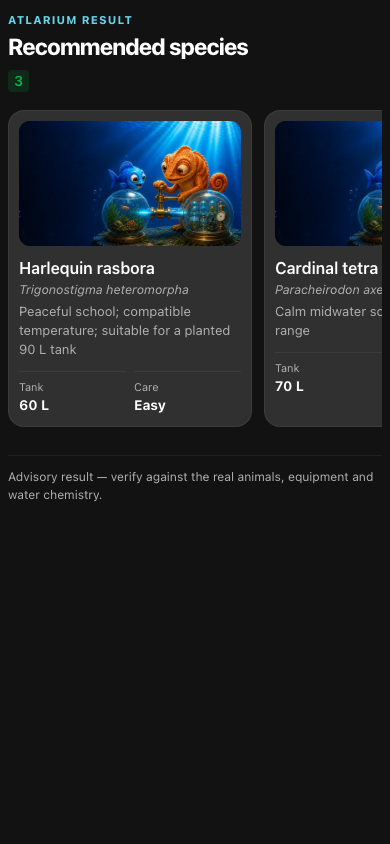
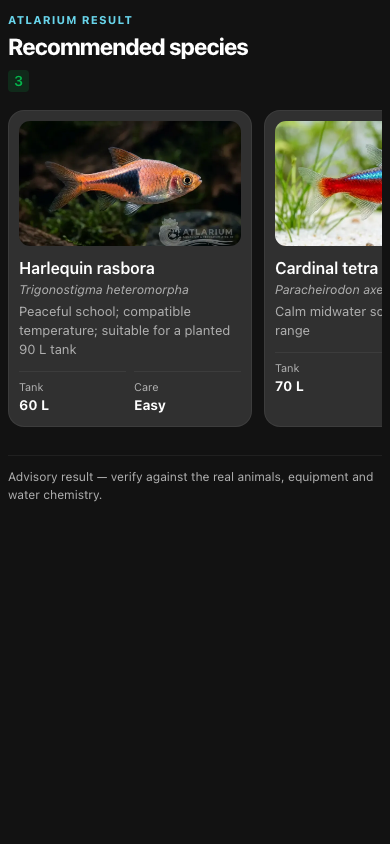
fix: show catalog media in habitat explorer

Changed region(s): [[0.0308, 0.1232, 0.6154, 0.3081], [0.7077, 0.1232, 0.9846, 0.3081]]

diff --git a/src/apps/habitat-explorer-ui/src/data.ts b/src/apps/habitat-explorer-ui/src/data.ts
@@ -171,6 +171,36 @@ function imageFromCandidate(value: unknown): string {
   return "";
 }
 
+function catalogImageFromPublicUrl(item: DataRecord) {
+  const publicUrl = typeof item.public_url === "string" ? item.public_url.trim() : "";
+  const slug = typeof item.slug === "string" ? item.slug.trim() : "";
+  if (!publicUrl || !/^[a-z0-9]+(?:[._-][a-z0-9]+)*$/.test(slug)) return "";
+
+  try {
+    const page = new URL(publicUrl);
+    if (page.protocol !== "https:" || !ALLOWED_IMAGE_HOSTS.has(page.hostname)) return "";
+
+    const segments = page.pathname.split("/").filter(Boolean);
+    const catalogIndex = segments.indexOf("catalog");
+    const category = catalogIndex >= 0 ? segments[catalogIndex + 1] : undefined;
+    const publicSlug = catalogIndex >= 0 ? segments[catalogIndex + 2] : undefined;
+    const mediaCategory = category === "fish" ? "fish" : category === "plants" ? "plant" : undefined;
+    if (!mediaCategory || publicSlug !== slug) return "";
+
+    const source = `/media/catalog/species/${mediaCategory}/${slug}/01-ai.png`;
+    const image = new URL("/api/img/img-wm-v11/card-w828-q78.webp", "https://atlarium.bio");
+    image.searchParams.set("src", source);
+    image.searchParams.set("v", "img-wm-v11");
+    image.searchParams.set("w", "828");
+    image.searchParams.set("q", "78");
+    image.searchParams.set("f", "webp");
+    image.searchParams.set("p", "card");
+    return image.href;
+  } catch {
+    return "";
+  }
+}
+
 export function imageFor(item: DataRecord) {
   for (const key of IMAGE_KEYS) {
     const image = imageFromCandidate(item[key]);
@@ -183,7 +213,7 @@ export function imageFor(item: DataRecord) {
       if (image) return image;
     }
   }
-  return "";
+  return catalogImageFromPublicUrl(item);
 }
 
 export function humanize(value: string) {

diff --git a/tests/widget-data.test.ts b/tests/widget-data.test.ts
@@ -1,0 +1,40 @@
+import { describe, expect, it } from "vitest";
+
+import { imageFor } from "../src/apps/habitat-explorer-ui/src/data.js";
+
+describe("Habitat Explorer media", () => {
+  it("uses the canonical catalog species image when the public payload has no media field", () => {
+    expect(
+      imageFor({
+        slug: "paracheirodon-innesi",
+        public_url: "https://atlarium.bio/it/catalog/fish/paracheirodon-innesi",
+      }),
+    ).toBe(
+      "https://atlarium.bio/api/img/img-wm-v11/card-w828-q78.webp?src=%2Fmedia%2Fcatalog%2Fspecies%2Ffish%2Fparacheirodon-innesi%2F01-ai.png&v=img-wm-v11&w=828&q=78&f=webp&p=card",
+    );
+
+    expect(
+      imageFor({
+        slug: "aciotis-acuminifolia",
+        public_url: "https://atlarium.bio/es/catalog/plants/aciotis-acuminifolia",
+      }),
+    ).toContain("%2Fmedia%2Fcatalog%2Fspecies%2Fplant%2Faciotis-acuminifolia%2F01-ai.png");
+  });
+
+  it("prefers an explicit trusted image and does not invent media for unrelated records", () => {
+    expect(
+      imageFor({
+        image_url: "https://atlarium.bio/media/catalog/custom.webp",
+        slug: "paracheirodon-innesi",
+        public_url: "https://atlarium.bio/it/catalog/fish/paracheirodon-innesi",
+      }),
+    ).toBe("https://atlarium.bio/media/catalog/custom.webp");
+
+    expect(
+      imageFor({
+        slug: "external-record",
+        public_url: "https://example.com/catalog/fish/external-record",
+      }),
+    ).toBe("");
+  });
+});

diff --git a/src/apps/habitat-explorer-ui/src/App.tsx b/src/apps/habitat-explorer-ui/src/App.tsx
@@ -56,16 +56,20 @@ function Media({ item, className = "feature-media" }: { item: DataRecord; classN
   const src = imageFor(item);
   const [failed, setFailed] = useState(false);
   const title = titleFor(item);
-  if (!src || failed) {
-    return (
-      <img
-        className={`${className} media-fallback`}
-        src={mascotScene}
-        alt={`Atlarium habitat mascots for ${title}`}
-      />
-    );
-  }
-  return <Image className={className} src={src} alt={title} loading="lazy" onError={() => setFailed(true)} />;
+  const scientific = scientificFor(item);
+
+  useEffect(() => setFailed(false), [src]);
+
+  if (!src || failed) return null;
+  return (
+    <Image
+      className={className}
+      src={src}
+      alt={scientific ? `${title} — ${scientific}` : title}
+      loading="lazy"
+      onError={() => setFailed(true)}
+    />
+  );
 }
 
 function MascotMedia({ compact = false }: { compact?: boolean }) {

diff --git a/src/config.ts b/src/config.ts
@@ -48,7 +48,7 @@ const envSchema = z
       .min(1)
       .max(80)
       .default("Atlarium Habitat Database MCP"),
-    MCP_VERSION: z.string().trim().min(1).max(40).default("2.0.1"),
+    MCP_VERSION: z.string().trim().min(1).max(40).default("2.0.2"),
     MCP_PORT: z.coerce.number().int().min(1).max(65_535).default(43118),
     MCP_PUBLIC_BASE_URL: z.url().default("https://mcp.atlarium.bio"),
     ATLARIUM_API_BASE_URL: z.url().default("https://atlarium.bio/api/public/mcp/v1"),

diff --git a/tests/config.test.ts b/tests/config.test.ts
@@ -11,7 +11,7 @@ describe("runtime config", () => {
     });
 
     expect(config.MCP_SERVICE_NAME).toBe(mcpDisplayName);
-    expect(config.MCP_VERSION).toBe("2.0.1");
+    expect(config.MCP_VERSION).toBe("2.0.2");
     expect(config.MCP_DEFAULT_LANGUAGE).toBe("en");
     expect(config.atlariumApiBaseUrl.href).toBe("https://atlarium.bio/api/public/mcp/v1");
     expect(config.trustProxy).toBe(1);

diff --git a/tests/apps.test.ts b/tests/apps.test.ts
@@ -66,6 +66,7 @@ describe("ChatGPT App widget", () => {
     expect(html).not.toContain("data-brand-logo");
     expect(html).not.toContain("Rasbora arlecchino");
     expect(html).not.toContain("Acara blu");
+    expect(html).not.toContain("Atlarium habitat mascots for ");
   });
 
   it("declares standard and ChatGPT-compatible widget CSP metadata", () => {

diff --git a/src/apps/habitat-explorer-ui/src/styles.css b/src/apps/habitat-explorer-ui/src/styles.css
@@ -183,7 +183,6 @@ h2, .subheading {
   width: 100%;
 }
 
-.media-fallback, .result-media--fallback { object-position: 64% center; }
 
 .result-copy { display: grid; gap: 3px; min-width: 0; }
 .result-copy strong { font-size: 1rem; line-height: 1.25; }

diff --git a/tests/http.test.ts b/tests/http.test.ts
@@ -106,7 +106,7 @@ describe("HTTP app", () => {
       await expect(response.json()).resolves.toEqual({
         service: mcpDisplayName,
         status: "ok",
-        version: "2.0.1",
+        version: "2.0.2",
       });
     });
   });

diff --git a/tests/metadata.test.ts b/tests/metadata.test.ts
@@ -31,7 +31,7 @@ describe("publication metadata", () => {
         url: mcpRepositoryUrl,
       },
       title: mcpTitle,
-      version: "2.0.1",
+      version: "2.0.2",
     });
     expect(serverJson.remotes).toEqual([
       {

diff --git a/README.md b/README.md
@@ -13,7 +13,7 @@
   <a href="https://github.com/techgardeners/atlarium-mcp/actions/workflows/mcp-directory-audit.yml"><img alt="MCP Directory Audit" src="https://github.com/techgardeners/atlarium-mcp/actions/workflows/mcp-directory-audit.yml/badge.svg"></a>
   <a href="LICENSE"><img alt="MIT License" src="https://img.shields.io/github/license/techgardeners/atlarium-mcp"></a>
   <a href="https://registry.modelcontextprotocol.io/v0.1/servers?search=bio.atlarium%2Fhabitat-database"><img alt="Official MCP Registry" src="https://img.shields.io/badge/Official_MCP_Registry-bio.atlarium%2Fhabitat--database-0E7C86"></a>
-  <img alt="Version 2.0.1" src="https://img.shields.io/badge/version-2.0.1-0E7C86">
+  <img alt="Version 2.0.2" src="https://img.shields.io/badge/version-2.0.2-0E7C86">
   <img alt="Transport: Streamable HTTP" src="https://img.shields.io/badge/transport-Streamable_HTTP-145C9E">
   <img alt="Read-only MCP tools" src="https://img.shields.io/badge/tools-39_read--only-2D7D46">
   <img alt="Prompts enabled" src="https://img.shields.io/badge/prompts-enabled-6B7280">
@@ -45,7 +45,7 @@ write operations.
 | Surface | Value |
 | --- | --- |
 | MCP endpoint | `https://mcp.atlarium.bio/mcp` |
-| MCP version | `2.0.1` |
+| MCP version | `2.0.2` |
 | Transport | Streamable HTTP |
 | Authentication | none |
 | Tool surface | 39 public read-only tools |

diff --git a/deploy/kubernetes/README.md b/deploy/kubernetes/README.md
@@ -18,14 +18,14 @@ Target: Atlarium Kubernetes, namespace `atlarium-mcp`, public host
 Default image:
 
 ```bash
-ghcr.io/techgardeners/atlarium-mcp:2.0.1
+ghcr.io/techgardeners/atlarium-mcp:2.0.2
 ```
 
 To use the Atlarium registry instead:
 
 ```bash
 kubectl kustomize deploy/kubernetes \
-  | sed 's#ghcr.io/techgardeners/atlarium-mcp:2.0.1#registry.atlarium.bio/atlarium-mcp:2.0.1#' \
+  | sed 's#ghcr.io/techgardeners/atlarium-mcp:2.0.2#registry.atlarium.bio/atlarium-mcp:2.0.2#' \
   | kubectl apply -f -
 ```
 

diff --git a/docs/publication-checklist.md b/docs/publication-checklist.md
@@ -120,8 +120,8 @@ PUSH_IMAGE=true pnpm pipeline:local
 Manual equivalent:
 
 ```bash
-docker build -t ghcr.io/techgardeners/atlarium-mcp:2.0.1 .
-docker push ghcr.io/techgardeners/atlarium-mcp:2.0.1
+docker build -t ghcr.io/techgardeners/atlarium-mcp:2.0.2 .
+docker push ghcr.io/techgardeners/atlarium-mcp:2.0.2
 ```
 
 2. Deploy to Atlarium Kubernetes.
